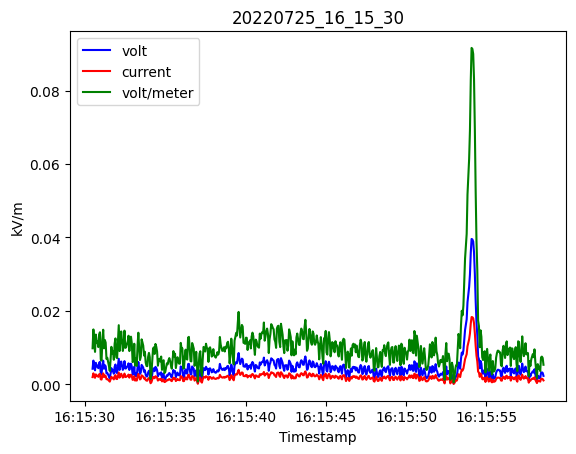
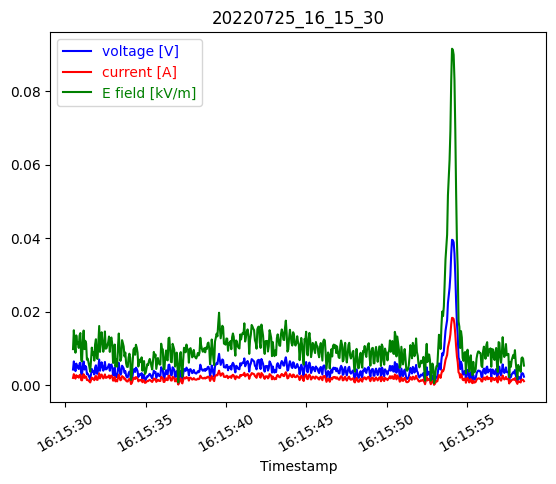
merging local stuff

Changed region(s): [[0.0306, 0.0, 1.0, 0.9868], [0.0, 0.4626, 0.1223, 0.5551], [0.0306, 0.3084, 0.1223, 0.4009]]

diff --git a/Measurements/EFM113B/data/220720_measures/raw/plot_each.py b/Measurements/EFM113B/data/220720_measures/raw/plot_each.py
@@ -17,17 +17,17 @@ for file in glob.glob("*.data"):
         #print(volt)
         current = np.array([float(numeric_string) for numeric_string in currentData[2]])
         voltmeter = np.array([float(numeric_string) for numeric_string in currentData[3]])
-        plt.plot(timestamp,volt, color='b', label='volt')
-        plt.plot( timestamp,current, color='r', label='current')
-        plt.plot( timestamp,voltmeter, color='g', label='volt/meter')
+        plt.plot(timestamp,volt, color='b', label='voltage [V]')
+        plt.plot( timestamp,current, color='r', label='current [A]')
+        plt.plot( timestamp,voltmeter, color='g', label='E field [kV/m]')
         #plt.xscale('log')
         plt.xlabel("Timestamp")
-        plt.ylabel("kV/m")
+        plt.xticks(rotation=30)
         plt.title(os.path.splitext(file)[0])
-        plt.legend()
+        legend = plt.legend(labelcolor='linecolor')
         #plt.show()
         plt.savefig(os.path.splitext(file)[0]+".png", bbox_inches='tight')
         plt.close()
-        
+
 
 

diff --git a/Measurements/EFM113B/data/220725_measures/plot_each.py b/Measurements/EFM113B/data/220725_measures/plot_each.py
@@ -17,17 +17,17 @@ for file in glob.glob("*.data"):
         #print(volt)
         current = np.array([float(numeric_string) for numeric_string in currentData[2]])
         voltmeter = np.array([float(numeric_string) for numeric_string in currentData[3]])
-        plt.plot(timestamp,volt, color='b', label='volt')
-        plt.plot( timestamp,current, color='r', label='current')
-        plt.plot( timestamp,voltmeter, color='g', label='volt/meter')
+        plt.plot(timestamp,volt, color='b', label='voltage [V]')
+        plt.plot( timestamp,current, color='r', label='current [A]')
+        plt.plot( timestamp,voltmeter, color='g', label='E field [kV/m]')
         #plt.xscale('log')
         plt.xlabel("Timestamp")
-        plt.ylabel("kV/m")
+        plt.xticks(rotation=30)
         plt.title(os.path.splitext(file)[0])
-        plt.legend()
+        legend = plt.legend(labelcolor='linecolor')
         #plt.show()
         plt.savefig(os.path.splitext(file)[0]+".png", bbox_inches='tight')
         plt.close()
-        
+
 
 

diff --git a/Measurements/EFM113B/data/220718_measures/raw/plot_each.py b/Measurements/EFM113B/data/220718_measures/raw/plot_each.py
@@ -17,14 +17,14 @@ for file in glob.glob("*.data"):
         #print(volt)
         current = np.array([float(numeric_string) for numeric_string in currentData[2]])
         voltmeter = np.array([float(numeric_string) for numeric_string in currentData[3]])
-        plt.plot(timestamp,volt, color='b', label='volt')
-        plt.plot( timestamp,current, color='r', label='current')
-        plt.plot( timestamp,voltmeter, color='g', label='volt/meter')
+        plt.plot(timestamp,volt, color='b', label='voltage [V]')
+        plt.plot( timestamp,current, color='r', label='current [A]')
+        plt.plot( timestamp,voltmeter, color='g', label='E field [kV/m]')
         #plt.xscale('log')
         plt.xlabel("Timestamp")
-        plt.ylabel("kV/m")
+        plt.xticks(rotation=30)
         plt.title(os.path.splitext(file)[0])
-        plt.legend()
+        legend = plt.legend(labelcolor='linecolor')
         #plt.show()
         plt.savefig(os.path.splitext(file)[0]+".png", bbox_inches='tight')
         plt.close()

diff --git a/Measurements/EFM113B/data/220706_measures/Raw/plot_each.py b/Measurements/EFM113B/data/220706_measures/Raw/plot_each.py
@@ -17,14 +17,13 @@ for file in glob.glob("*.data"):
         #print(volt)
         current = np.array([float(numeric_string) for numeric_string in currentData[2]])
         voltmeter = np.array([float(numeric_string) for numeric_string in currentData[3]])
-        plt.plot(timestamp,volt, color='b', label='volt')
-        plt.plot( timestamp,current, color='r', label='current')
-        plt.plot( timestamp,voltmeter, color='g', label='volt/meter')
+        plt.plot(timestamp,volt, color='b', label='voltage [V]')
+        plt.plot( timestamp,current, color='r', label='current [A]')
+        plt.plot( timestamp,voltmeter, color='g', label='E field [kV/m]')
         #plt.xscale('log')
         plt.xlabel("Timestamp")
-        plt.ylabel("kV/m")
         plt.title(os.path.splitext(file)[0])
-        plt.legend()
+        legend = plt.legend(labelcolor='linecolor')
         #plt.show()
         plt.savefig(os.path.splitext(file)[0]+".png", bbox_inches='tight')
         plt.close()

diff --git a/Measurements/EFM113B/data/220722_measures/plot_all.py b/Measurements/EFM113B/data/220722_measures/plot_all.py
@@ -1,0 +1,25 @@
+import glob, os
+import numpy as np
+import matplotlib
+import datetime
+#matplotlib.use('Agg')
+import matplotlib.pyplot as plt
+
+os.chdir("./")
+i = 0
+color_plot = ["red", "black", "blue", "green", "orange", "yellow", "grey"]
+for file in glob.glob("*.data"):
+    with open(file) as inp:
+        currentData = list(zip(*(line.split('\t') for line in inp)))
+        timestamp = np.array([datetime.datetime.strptime(timestamp_string, '%H:%M:%S.%f') for timestamp_string in currentData[0]])
+        voltmeter = np.array([float(numeric_string) for numeric_string in currentData[3]])
+        plt.plot( timestamp, voltmeter, color=color_plot[i], label= os.path.splitext(file)[0])
+        i = i + 1
+        
+plt.xlabel("Timestamp")
+plt.ylabel("kV/m")
+plt.title("kV/m comparison")
+plt.legend()
+#plt.show()
+plt.savefig("voltmeter_comparison.png")
+plt.close()
